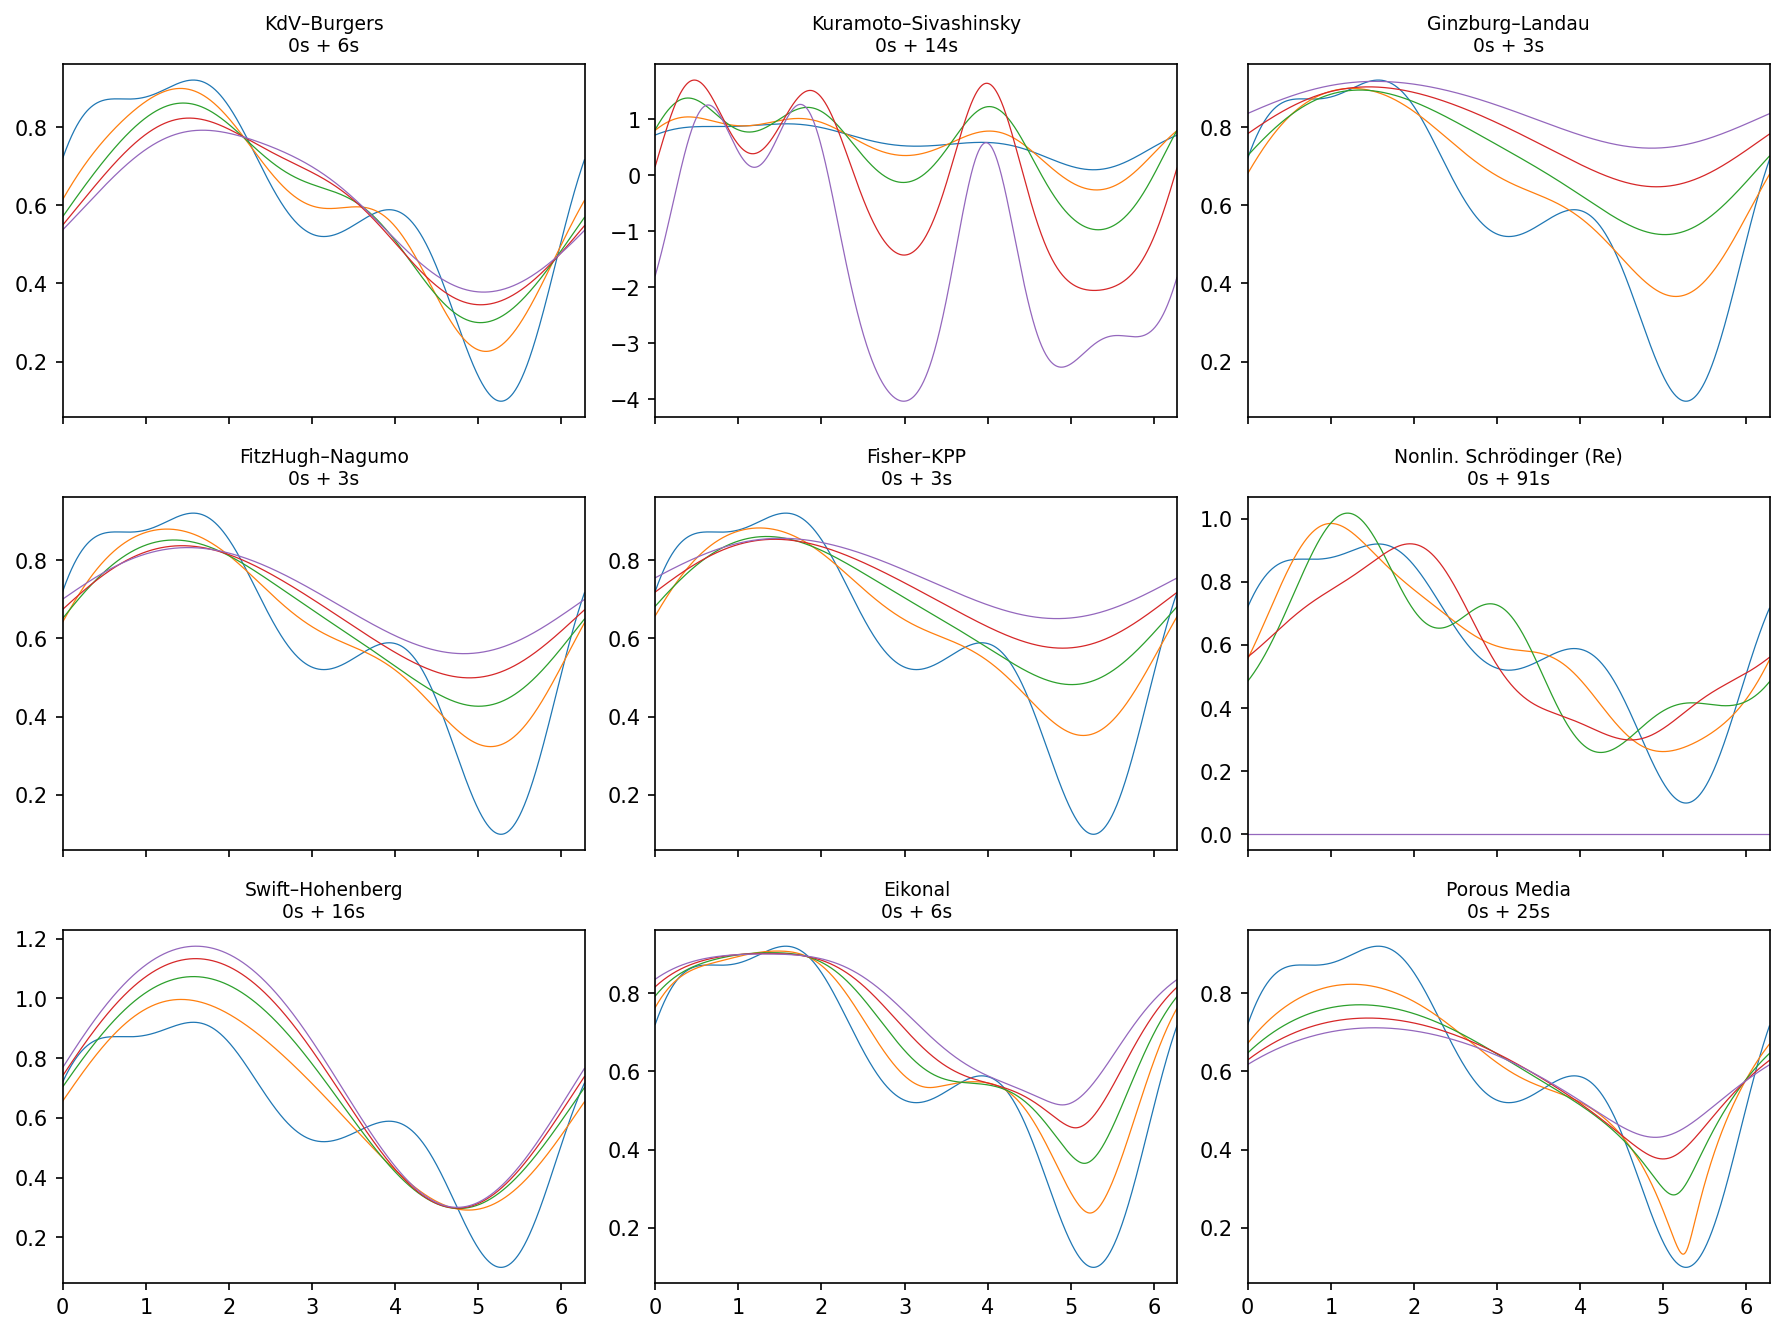
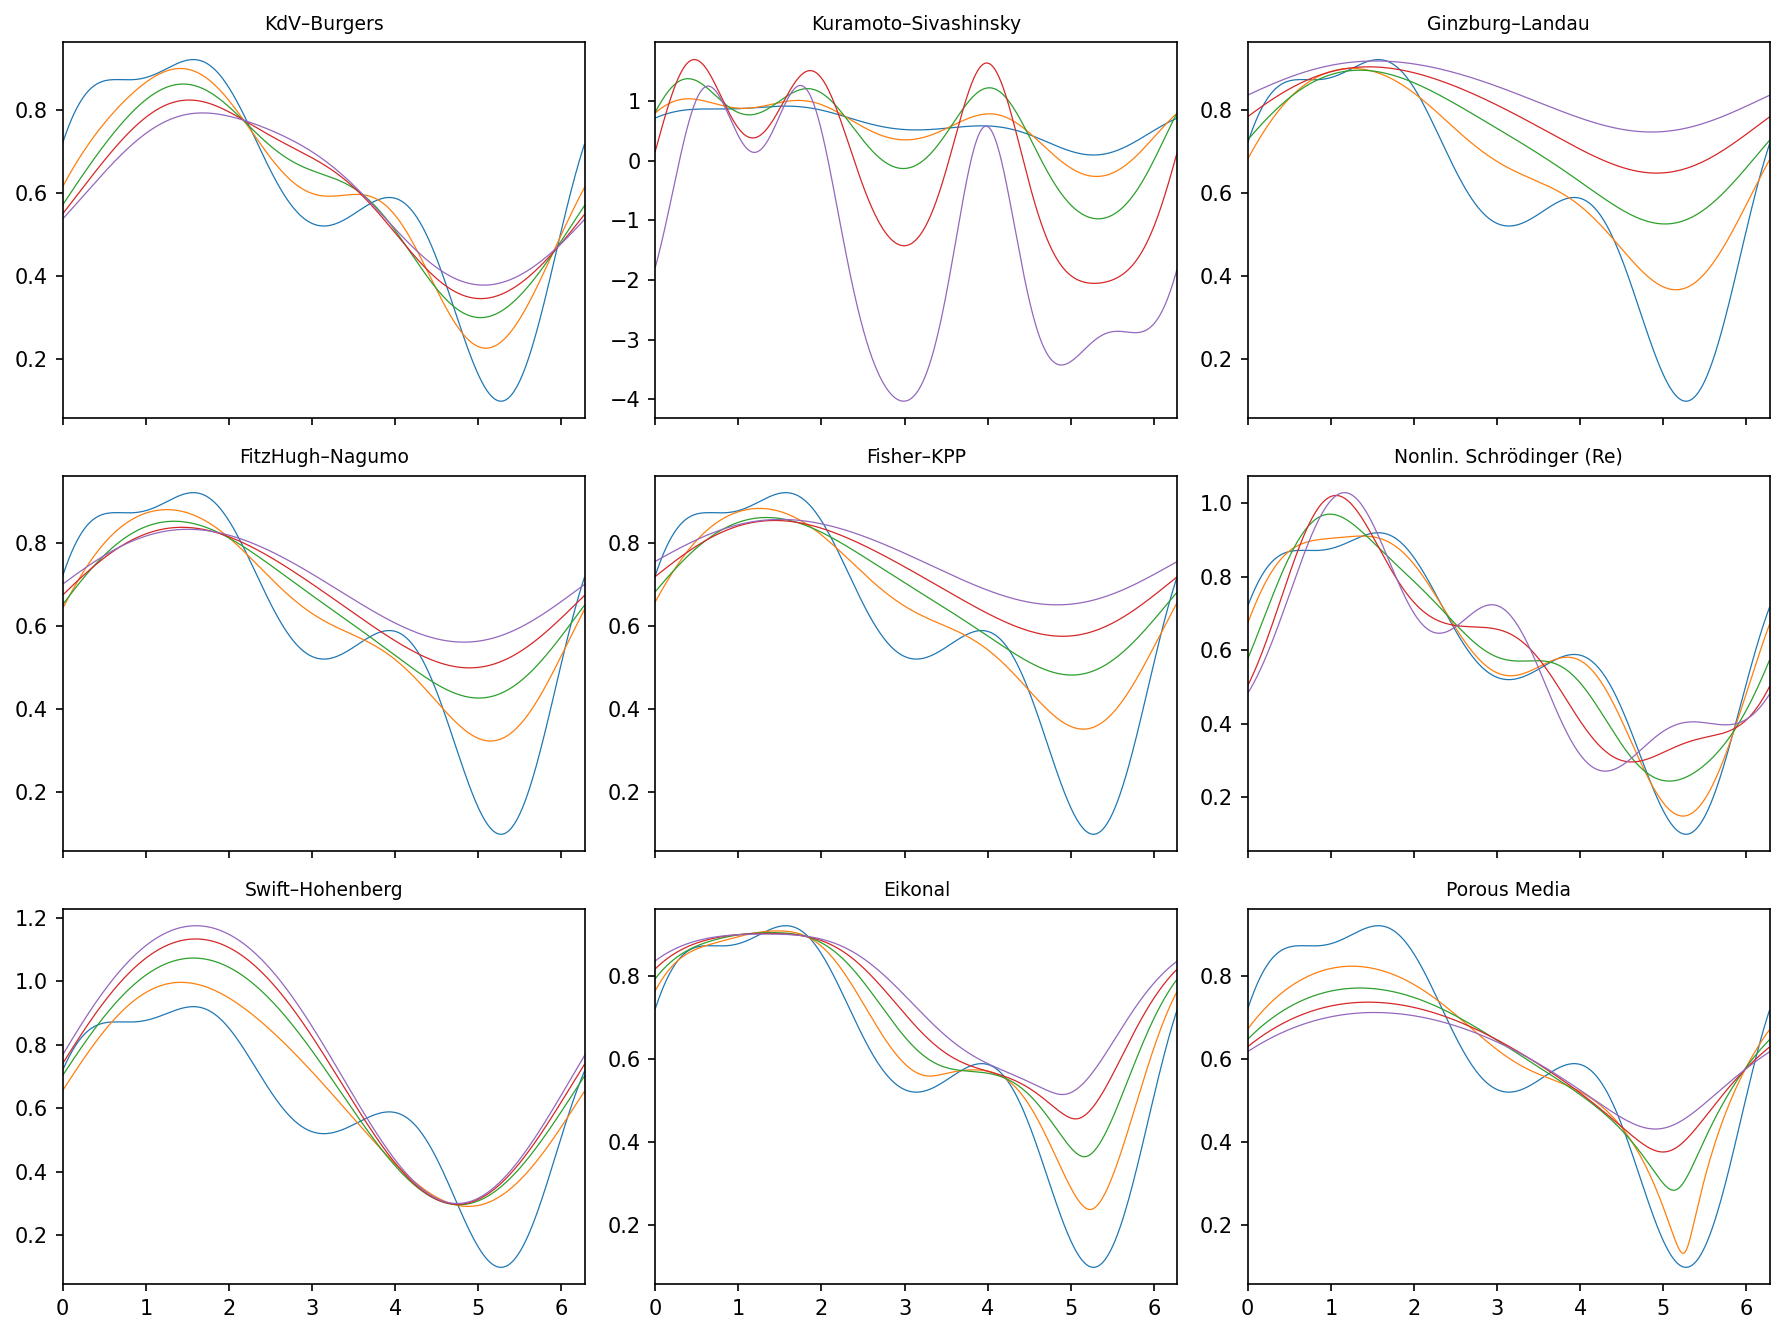
fix NLS gallery: remove timing from titles, use stable time window

diff --git a/examples/gallery.py b/examples/gallery.py
@@ -1,5 +1,5 @@
 """Classical PDE solution gallery."""
-import time, os
+import os
 import matplotlib; matplotlib.use("Agg")
 import matplotlib.pyplot as plt
 import numpy as np
@@ -30,41 +30,43 @@ MODELS = {
         EvolutionEquation(["3*u^2*D[D[u]] + 6*u*D[u]*D[u]"]),
 }
 
-dt, T = 0.001, 1.0
-t_span = np.arange(dt, T + dt, dt)
-x_axis = np.linspace(0, 2*np.pi, 1001)[:-1]
+DT = 0.001
+# NLS with the shared multi-modal IC is unstable past t ~ 0.5;
+# use a shorter integration window so all 5 snapshots are valid.
+T_DEFAULT = 1.0
+T_NLS = 0.45
+
+x_axis = np.linspace(0, 2 * np.pi, 1001)[:-1]
 Nx = len(x_axis)
 
-# Single-component initial condition (shared by all models)
+# Shared initial condition
 y0_real = (
-    0.6 + 0.3*np.sin(x_axis) + 0.15*np.sin(2*x_axis)
-    + 0.1*np.cos(3*x_axis) + 0.02*np.cos(4*x_axis)
+    0.6 + 0.3 * np.sin(x_axis) + 0.15 * np.sin(2 * x_axis)
+    + 0.1 * np.cos(3 * x_axis) + 0.02 * np.cos(4 * x_axis)
 )
-# Two-component IC for NLS: same real part, zero imaginary part
 y0_nls = np.concatenate([y0_real, np.zeros(Nx)])
 
 n = len(MODELS)
 cols = 3
 rows = (n + cols - 1) // cols
-fig, axes = plt.subplots(rows, cols, figsize=(4*cols, 3*rows), sharex=True)
+fig, axes = plt.subplots(rows, cols, figsize=(4 * cols, 3 * rows), sharex=True)
 axes = axes.flatten()
 
 for idx, (name, model) in enumerate(MODELS.items()):
     print(f"[{idx+1}/{n}] {name}", flush=True)
-    t0 = time.time()
     model.wrap(name.replace(" ", "_"))
-    dt_compile = time.time() - t0
 
+    T = T_NLS if model.complex else T_DEFAULT
+    t_span = np.arange(DT, T + DT, DT)
     y0 = y0_nls if model.complex else y0_real
-
-    t0 = time.time()
     sol = model.solve(y0, t_span, rtol=1e-6, atol=1e-6)
-    dt_solve = time.time() - t0
 
+    # 5 evenly-spaced snapshots
+    stride = max(len(t_span) // 5, 1)
     for k in range(5):
-        axes[idx].plot(x_axis, sol[k*200, :Nx], linewidth=0.6)
-    axes[idx].set_title(f"{name}\n{dt_compile:.0f}s + {dt_solve:.0f}s", fontsize=9)
-    axes[idx].set_xlim(0, 2*np.pi)
+        axes[idx].plot(x_axis, sol[k * stride, :Nx], linewidth=0.6)
+    axes[idx].set_title(name, fontsize=9)
+    axes[idx].set_xlim(0, 2 * np.pi)
 
 for j in range(n, len(axes)):
     axes[j].set_visible(False)
